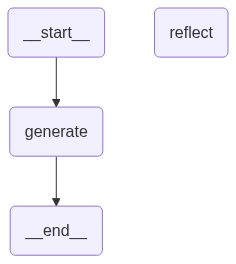
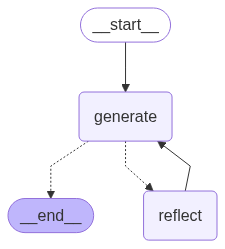
Langgraph add_conditional_edges refactor

diff --git a/reflection-agent/main.py b/reflection-agent/main.py
@@ -33,12 +33,12 @@ def should_continue(state: List[BaseMessage]):
     return REFLECT
 
 
-builder.add_conditional_edges(GENERATE, should_continue)
+builder.add_conditional_edges(GENERATE, should_continue, {
+                              END: END, REFLECT: REFLECT})
 builder.add_edge(REFLECT, GENERATE)
 
 graph = builder.compile()
 graph.get_graph().draw_mermaid_png(output_file_path="graph.png")
-graph.get_graph().print_ascii()
 
 if __name__ == "__main__":
     print("Hello LangGraph")

diff --git a/reflection-agent/README.md b/reflection-agent/README.md
@@ -1,13 +1,17 @@
 # Reflection Agent
 
 ## Overview
+
 Reflection Agent is a Python application designed to enhance Twitter posts by providing critique and generating improved versions of tweets. It's built using the LangChain and LangGraph libraries to model and process the interaction flow.
 
 This project targets developers and social media managers looking to leverage AI to improve social media content.
 
+![Agent Flowchart](Schema.png)
 ![Agent Flowchart](graph.png)
+[Read more about Reflection Agents](https://blog.langchain.com/reflection-agents/)
 
 ## Getting Started / Installation
+
 Assuming you've cloned the repository, follow these steps to set up the project:
 
 1. Install dependencies using Poetry:
@@ -25,13 +29,17 @@ Assuming you've cloned the repository, follow these steps to set up the project:
    ```
 
 ## Usage
+
 To run the application, use the following command:
-   ```bash
-   poetry run python main.py
-   ```
+
+```bash
+poetry run python main.py
+```
+
 This will start the process where the application listens for input tweets and provides enhancements.
 
 ## Project Details
+
 Reflection Agent operates using two main components:
 
 1. **Generation Node**: Enhances tweets based on user requests.
@@ -40,17 +48,20 @@ Reflection Agent operates using two main components:
 The application uses a message-driven architecture where tweets are processed in a cycle between these two nodes until a satisfactory result is achieved or the maximum iteration count is reached.
 
 ## When to Use This Project
+
 Use Reflection Agent when you need to automate the enhancement of Twitter posts, either by generating new content or refining existing tweets. It is not suitable for real-time tweet processing due to the iterative nature of feedback and generation.
 
 ## Pros and Cons
-| Pros                       | Cons                         |
-|----------------------------|------------------------------|
+
+| Pros                        | Cons                           |
+| --------------------------- | ------------------------------ |
 | Automates tweet enhancement | Not suitable for real-time use |
-| AI-driven precise feedback  | Requires API keys             |
+| AI-driven precise feedback  | Requires API keys              |
 
 ## Future Improvements
-| Improvement               | Description                                                                 |
-|---------------------------|-----------------------------------------------------------------------------|
-| Real-time processing mode | Develop a mode for real-time tweet improvements to aid live social media use.|
+
+| Improvement               | Description                                                                   |
+| ------------------------- | ----------------------------------------------------------------------------- |
+| Real-time processing mode | Develop a mode for real-time tweet improvements to aid live social media use. |
 
 <!-- Last updated: 0c2c271cef34bbf68b2208e83d89cec4fbdc9213 -->
